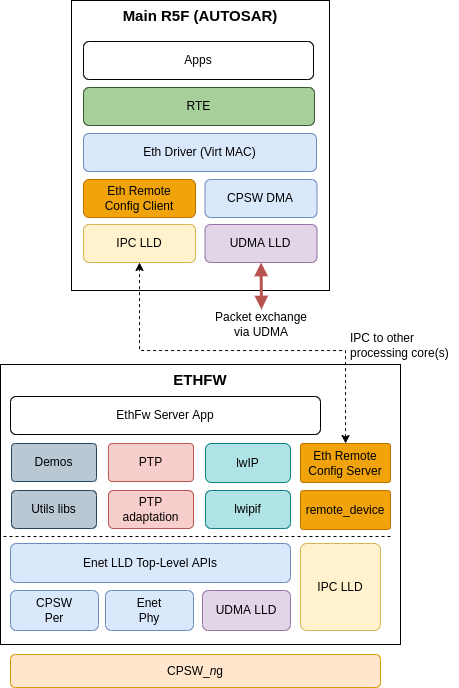
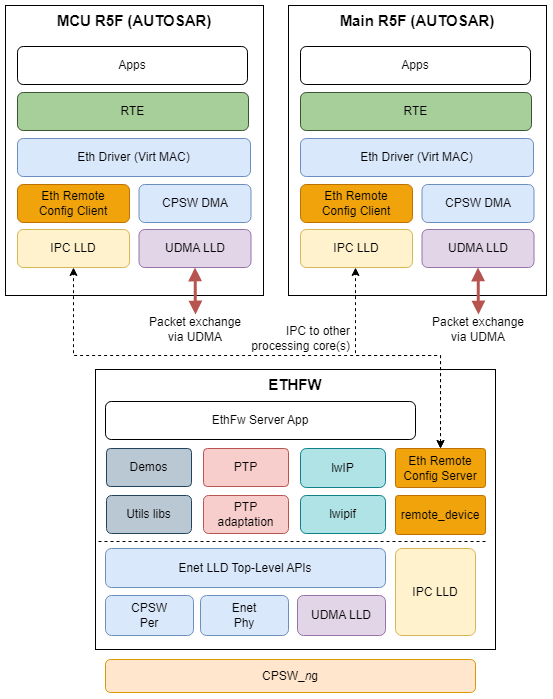
ETHFW-2152 - docs: User Guide update for MCAL mcu1_0 virtual client
Added AUTOSAR Virtual client support on mcu1_0 in addition to mcu2_1 which
was already supported in ETHFW User's Guide.

diff --git a/internal_docs/doxygen/content_pages/common_user_guide/01001_user_guide.md b/internal_docs/doxygen/content_pages/common_user_guide/01001_user_guide.md
@@ -234,7 +234,8 @@ UDMA TX channel and RX flow.
 In the current release, AUTOSAR client only supports *virtual switch port*. *Virtual MAC
 port* (MAC-only mode) is not supported.
 
-Note that the AUTOSAR client in the SDK has enabled only on Main R5F 0 core 1.
+Note that the AUTOSAR client in the SDK has enabled on Main R5F 0 core 1 with remote endpoint id as 28
+and MCU R5F 0 core 0 with remote endpoint id as 38.
 
 
 - - - - - - - - - - - - - - - - - - - - - - - - - - - - - - - - - - - - - - - -
@@ -348,8 +349,15 @@ the packets match the unicast MAC address classification criteria.
 SDK 8.0 or older supported only this type of virtual port.
 
 Virtual port (*virtual switch* or *virtual MAC*) are allocated to a specific core.
-For example, below code snippet shows a configuration where *virtual switch 0* is allocated
-for A72 core, and *virtual switch port 1* is allocated for Main R5F 0 Core 1.
+
+For example, below code snippet shows the virtual switch configuration:
+- For remote_device based clients in `gEthApp_virtPortCfg` where *virtual switch port 0* is allocated
+    for A72 core, and *virtual switch port 1* is allocated for Main R5F 0 Core 1.
+- For AUTOSAR clients in `gEthApp_autosarVirtPortCfg` where *virtual switch port 1* is allocated for
+    Main R5F 0 Core 1 and *virtual switch port 2* is allocated for MCU R5F 0 Core 0.
+
+It's worth noting that in this specific configuration *virtual switch port 1* can be used by an RTOS
+client or AUTOSAR client, depending on the OS running on Main R5F 0 Core 1.
 
 ```C
 static EthFw_VirtPortCfg gEthApp_virtPortCfg[] =
@@ -377,6 +385,10 @@ static EthFw_VirtPortCfg gEthApp_autosarVirtPortCfg[] =
     {
         .remoteCoreId = IPC_MCU2_1,
         .portId       = ETHREMOTECFG_SWITCH_PORT_1,
+    },
+    {
+        .remoteCoreId = IPC_MCU1_0,
+        .portId       = ETHREMOTECFG_SWITCH_PORT_2,
     },
 };
 
@@ -413,7 +425,7 @@ These virtual ports are directly associated with a hardware MAC port which is co
 MAC-only mode.
 
 Below code snippet (which is same as shown in previous section for \ref ethfw_virtual_switch_port)
-shows a configuration where *virtual MAC port 1* is allocated for A72, and *virtual MAC port 2*
+shows a configuration where *virtual MAC port 1* is allocated for A72, and *virtual MAC port 4*
 is allocated for Main R5F 0 Core 1. It's worth noting that virtual MAC ports are only supported
 in Linux and RTOS client, hence no virtual MAC ports are allocated for AUTOSAR client.
 
@@ -443,6 +455,10 @@ static EthFw_VirtPortCfg gEthApp_autosarVirtPortCfg[] =
     {
         .remoteCoreId = IPC_MCU2_1,
         .portId       = ETHREMOTECFG_SWITCH_PORT_1,
+    },
+    {
+        .remoteCoreId = IPC_MCU1_0,
+        .portId       = ETHREMOTECFG_SWITCH_PORT_2,
     },
 };
 
